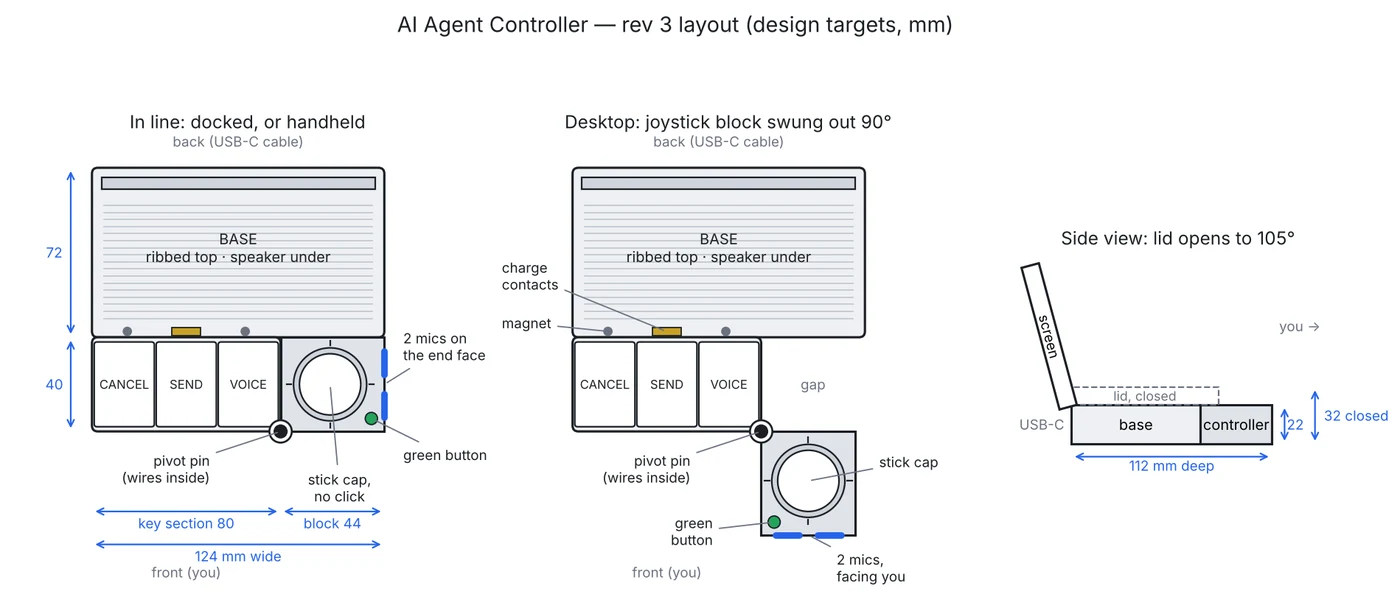
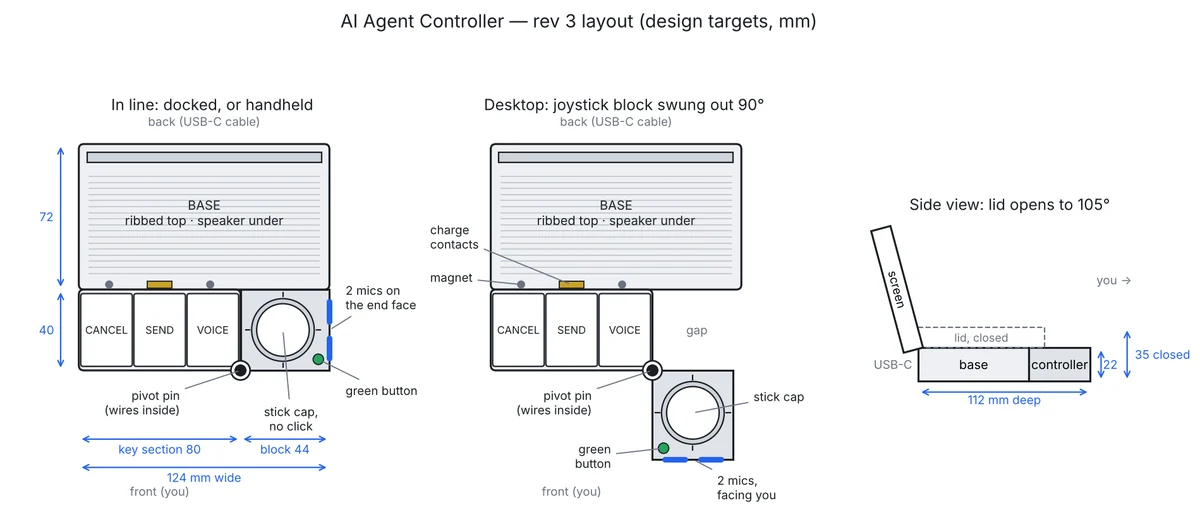
agent-controller: lid is 13 mm thick, display pins bent flat
Nico's decision. Concept model, renders, layout drawing, blueprint, plan,
decision log, build log and handoff updated. Closed size is about 124 x 112 x 35 mm.

Claude-Session: https://claude.ai/code/session_01EP3ipH8UzUytqJG5h65r5h

diff --git a/agent-controller/hardware/cad/rev3-pivot/concept.py b/agent-controller/hardware/cad/rev3-pivot/concept.py
@@ -30,7 +30,7 @@ H = 22.0                        # height of base and controller
 CD = 40.0                       # controller depth (y 0..40)
 BD = 72.0                       # base depth (y 40..112)
 Y0, Y1 = CD, CD + BD            # base front / back
-LID_D, LID_T = 82.0, 10.0
+LID_D, LID_T = 82.0, 13.0             # 13: room for the display's pins, bent flat
 LID_Y0 = Y1 - LID_D             # 30: the closed lid overhangs the controller by 10
 OPEN_DEG = 105.0
 JX = 18.0                       # joint between key section (left) and joystick block (right)
@@ -145,6 +145,10 @@ def dock_parts():
     P["lid_back"] = bk
     P["display"] = box(-54, 54, 36.0, 96.8, z0 + 1.2, z0 + 1.2 + 5.45)
     P["screen"] = box(-42.0, 42.0, 38.4, 94.4, z0 + 1.1, z0 + 1.2)
+    # the display's 14-pin header, pins bent flat so jumper plugs lie along the back of the module
+    hd = box(-54.0, -51.4, 48.2, 83.8, z0 + 6.65, z0 + 9.15)
+    hd = hd.union(box(-51.4, -44.5, 48.6, 83.4, z0 + 8.0, z0 + 8.7))
+    P["display_header"] = hd
     P["lid_magnet_lid"] = cyl_z(-57.0, 50.0, z0 + 0.15, z0 + 2.15, 3.0)
     P["hinge_pin1"] = cyl_x(-62.0, -46.0, Y1, H, 1.0)
     P["hinge_pin2"] = cyl_x(46.0, 62.0, Y1, H, 1.0)
@@ -312,7 +316,7 @@ PART_COL = {
     "base_floor": "floor", "base_shell": "shell", "contacts_base": "pogo", "dock_magnet_L": "magnet",
     "dock_magnet_R": "magnet", "lid_magnet_base": "magnet", "dock_board": "esp", "speaker": "speaker",
     "amp": "amp", "dock_led": "led", "lid_bezel": "bezel", "lid_back": "shell", "display": "display",
-    "screen": "screen", "lid_magnet_lid": "magnet", "hinge_pin1": "pin", "hinge_pin2": "pin",
+    "screen": "screen", "display_header": "pin", "lid_magnet_lid": "magnet", "hinge_pin1": "pin", "hinge_pin2": "pin",
     "key_body": "shell", "switch_plate": "splate", "battery_guard": "guard", "battery": "battery",
     "xiao": "xiao", "xiao_usb": "pin", "charger": "tp", "slide_switch": "slide", "contacts_ctrl": "pogo",
     "ctrl_magnet_L": "magnet", "ctrl_magnet_R": "magnet", "pivot_sensor": "button",
@@ -324,7 +328,7 @@ PART_COL = {
 for _i in (1, 2, 3):
     PART_COL[f"switch{_i}"] = "switch"
     PART_COL[f"plate{_i}"] = "plate"
-LID = {"lid_bezel", "lid_back", "display", "screen", "lid_magnet_lid"}
+LID = {"lid_bezel", "lid_back", "display", "screen", "display_header", "lid_magnet_lid"}
 SHELLS = {"base_floor", "base_shell", "lid_bezel", "lid_back", "key_body", "block_body", "block_top",
           "retainer", "plate1", "plate2", "plate3", "stick_cap", "screen"}
 
@@ -604,13 +608,14 @@ def main():
            title="Controller off the dock", sub="Magnets and two spring contacts on the base's front face.")
     # 4. closed
     render(scene(open_deg=0), (-170, -250, 170), (0, 56, 14), p("04-closed.png"), zoom=1.3,
-           title="Closed", sub="About 124 x 112 x 32 mm. The lid overhangs the controller by 10 mm.")
+           title="Closed", sub="About 124 x 112 x 35 mm. The lid overhangs the controller by 10 mm.")
 
     # 5. x-ray, three-quarter view, labelled
     xs = scene(xray=True)
     LM = lid_open()
     lab = [
         ('4" display + touch (in the lid)', anc(T(dock["display"], LM), "c")),
+        ("Display pins, bent flat", anc(T(dock["display_header"], LM), "c")),
         ("Speaker, 40 mm, under the open slots", anc(dock["speaker"])),
         ("Amplifier (MAX98357A)", anc(dock["amp"])),
         ("Dock board (ESP32-S3), pins down", (47, 92, 12.1)),
@@ -660,13 +665,14 @@ def main():
         "dock_magnet_R": tr(0, -22, 0), "lid_magnet_base": tr(0, 0, 50), "base_shell": tr(0, 0, 80),
         "hinge_pin1": tr(-16, 0, 80), "hinge_pin2": tr(16, 0, 80),
         "lid_magnet_lid": tr(0, 0, 112), "lid_bezel": tr(0, 0, 128), "screen": tr(0, 0, 128),
-        "display": tr(0, 0, 152), "lid_back": tr(0, 0, 180),
+        "display": tr(0, 0, 152), "display_header": tr(0, 0, 160), "lid_back": tr(0, 0, 184),
     }
     DM = {k: T(m, ex[k]) for k, m in dock.items()}
     items = [(DM[k], COL[PART_COL[k]]) for k in DM]
     lab = [
         ("Lid back", anc(DM["lid_back"])),
         ('4" ST7796 display with touch, 108 x 61 mm', anc(DM["display"])),
+        ("Display pins, bent flat for plug-on wires", anc(DM["display_header"])),
         ("Lid frame + screen window", anc(DM["lid_bezel"], "front")),
         ("Lid magnet", anc(DM["lid_magnet_lid"])),
         ("Hinge pin (M2 screw), one each side", anc(DM["hinge_pin2"], "right")),

diff --git a/agent-controller/hardware/cad/rev3-pivot/layout.py b/agent-controller/hardware/cad/rev3-pivot/layout.py
@@ -21,7 +21,7 @@ CTRL_D = 40        # controller depth
 KEY_W = 80         # key section width
 BLOCK_W = W - KEY_W
 H = 22             # base and controller height
-LID_D, LID_T = 82, 10
+LID_D, LID_T = 82, 13
 PLATE_W, PLATE_D, GAP = 25.5, 36, 0.8
 DISH, CAP = 31, 26
 OPEN_DEG = 105

diff --git a/agent-controller/docs/agent-controller-v0-blueprint.md b/agent-controller/docs/agent-controller-v0-blueprint.md
@@ -139,8 +139,8 @@ BOM IDs in brackets. Order status is in the BOM, not here.
 | Controller | 124 × 40 × 22 | Flush with the base top. May grow to 24 (see 4.5). |
 | Key section | 80 × 40 | Left part of the controller |
 | Joystick block | 44 × 40 | Right part |
-| Lid | 124 × 82 × 10 | Overhangs the controller by 10 when closed |
-| Whole device, closed | about 124 × 112 × 32 | Reference: 105 × 89 × 21 |
+| Lid | 124 × 82 × 13 | Overhangs the controller by 10 when closed. 13 thick so the display's pins fit, bent flat (decided 2026-11-18). |
+| Whole device, closed | about 124 × 112 × 35 | Reference: 105 × 89 × 21 |
 | Whole device, open | Lid stops at 105° | |
 
 ### 4.2 Base
@@ -152,6 +152,7 @@ BOM IDs in brackets. Order status is in the BOM, not here.
 
 ### 4.3 Lid and hinge
 - A frame around the display module with the screen in landscape.
+- **Display pins:** the module's 14 pins stick out of its back. Bend them flat toward the middle of the module with pliers, so plug-on jumper wires lie along its back. Nothing is desoldered.
 - **Hinge:** two knuckles at the back corners with M2 screws as pins. A printed stop holds the lid at 105°. One magnet pair holds it shut.
 - **Wires:** 11 or 12 wires (display, touch, power) cross beside the hinge through a slot, with a slack loop inside the base.
 
@@ -220,7 +221,7 @@ The model is `hardware/cad/rev3-pivot/concept.py`. It places every part and chec
 
 | # | Where | Numbers | If it doesn't fit |
 |---|---|---|---|
-| 1 | Display in the lid | The lid has 1.3 mm behind the display. The display's pin header is about 8 mm tall. | The header comes off and the wires are soldered to its pads. Otherwise the pins are bent flat and the lid grows from 10 to about 13 mm. |
+| 1 | Display in the lid | **Decided 2026-11-18:** the lid is 13 mm thick and the display's pins are bent flat. That leaves 4.3 mm behind the display; the bent pins and their plugs need about 3.2 mm. | If the plugs don't fit, solder the wires to the pins instead |
 | 2 | Battery under the switches | 1.0 mm between the battery and the switch pins, with the pins trimmed to 1.5 mm and a 0.6 mm printed guard sheet between them | If the battery measures over 8.2 mm, the controller and the base grow from 22 to 24 mm |
 | 3 | Dock board in the base | The board is 69 mm long; the base is 67.6 mm deep inside. The board's front end sits in a pocket that leaves 0.8 mm of wall. | The base grows 2 mm deeper |
 | 4 | Dock board pins | They end 0.3 mm above the bottom plate | Wires are soldered to the sides of the pins. Plug-on connectors don't fit. |
@@ -418,7 +419,7 @@ Breadboard tips:
 4. Whether the key plates need the rear hinge.
 5. Whether the controller ends up 22 or 24 mm tall.
 6. What SlashVibe's green button and four contacts really do. Check their source code when it's published.
-7. The five tight spots in §4.7. The first one matters most: whether the display's pin header comes off, or the lid gets thicker.
+7. The tight spots in §4.7. The first is decided (a 13 mm lid); the other four wait for the caliper measurements.
 
 ## 14. After v0
 - To-dos by voice and the meeting assistant.

diff --git a/agent-controller/HANDOFF.md b/agent-controller/HANDOFF.md
@@ -20,7 +20,7 @@ Last updated: 2026-11-18 · by Claude (cloud session)
   - **No hardware is wasted.** One new part (C10 tactile buttons) and a few "check you have it" items; see plan §6.
   - **Shopping list:** [hardware/bom/shopping-list-2026-11-18.md](hardware/bom/shopping-list-2026-11-18.md). A second audit added C11 (battery lead connectors), C12 (capacitors), T8 (USB-C power meter), T9 (breadboards), T10 and T11.
   - Layout drawing: `hardware/renders/2026-11-18-rev3-layout/rev3-layout.png`.
-  - **Concept model (3D):** `hardware/cad/rev3-pivot/concept.py` → renders in `hardware/renders/2026-11-18-rev3-concept/` (finished look, x-ray, exploded). Its overlap check passes. Part placement and five tight spots are in blueprint §4.7.
+  - **Concept model (3D):** `hardware/cad/rev3-pivot/concept.py` → renders in `hardware/renders/2026-11-18-rev3-concept/` (finished look, x-ray, exploded). Its overlap check passes. Part placement and the tight spots are in blueprint §4.7. The lid is 13 mm thick (decided), so the device is about 35 mm tall closed.
   - **The code has not changed.** It still uses the older key map until milestone M1b.
 - **PR #9 is merged** (2026-11-18): rev 3, the shopping list and the M2 plan from PR #7 are all on `main`.
 - **PR #10** (branch `agent-controller-m1b`) holds the concept model and its renders. M1b code work continues on the same branch or a new one after it merges.
@@ -191,10 +191,11 @@ The full list is in blueprint §13. The main ones:
 - Whether docked sensing and 1 A charging through the dock behave on the breadboard.
 - Whether the key plates need the rear hinge, and whether the controller ends up 22 or 24 mm tall.
 - What the reference's green button and four contacts really do (check their source code when it's published).
-- The five tight spots from the concept model (blueprint §4.7). First: does the display's pin header come off, or does the lid get thicker?
+- Four tight spots from the concept model still wait for measurements (blueprint §4.7). The display one is decided: a 13 mm lid, pins bent flat.
 - How to get Cursor's "waiting for approval" status.
 
 ## 8. Step log (newest first)
+- 2026-11-18 — Nico chose the thicker lid: 13 mm, display pins bent flat. Model, renders, layout drawing, blueprint §4.1/§4.3/§4.7 and plan updated. Closed size is now about 124 × 112 × 35 mm.
 - 2026-11-18 — Rev 3 concept model:
   - `hardware/cad/rev3-pivot/concept.py` builds the device with every part placed, runs an overlap check (passes) and renders eight views.
   - Renders in `hardware/renders/2026-11-18-rev3-concept/`, web copies in `media/web/rev3-02…08`.

diff --git a/agent-controller/docs/decisions.md b/agent-controller/docs/decisions.md
@@ -4,6 +4,7 @@ One line per decision: what, why, and what it replaced. Newest first.
 
 | Date | Decision | Why | Replaces |
 |---|---|---|---|
+| 2026-11-18 | The lid is 13 mm thick, and the display's pins are bent flat (Nico's choice) | The pins are about 8 mm tall and a 10 mm lid had 1.3 mm behind the display; bending avoids desoldering 14 pins | 10 mm lid with the header removed |
 | 2026-11-18 | Part placement fixed by a 3D concept model with an automatic overlap check: dock board on the right of the base, battery under the Send and Voice switches, XIAO and charger at the left end, dock status light in the base top | The x-ray views show every part in place and the check proves nothing collides | Placement described in words only |
 | 2026-11-18 | The pivot sits 4 mm in from the front face with a 12 mm knuckle; the Voice plate is notched around it | The block must clear the key section through the whole 90° swing | Pivot position left open |
 | 2026-11-18 | The battery connects through a JST-PH pigtail, and a 0.1 µF capacitor sits on the battery-reading pin | Nothing is soldered to a live battery; the high-resistance divider reads steadily | Soldering the battery leads; no capacitor |

diff --git a/agent-controller/BUILDLOG.md b/agent-controller/BUILDLOG.md
@@ -8,7 +8,8 @@ Newest first. Each entry covers what changed, why, and links to its renders and 
 - Built the whole device as a 3D model with every part in its place. → [renders](hardware/renders/2026-11-18-rev3-concept/)
 - Eight views: open, block swung out, controller off the dock, closed, two x-ray views, and both halves exploded with labels.
 - The model checks itself: no two parts overlap, with the lid closed, the block in line, and the block swung out.
-- It found five tight spots, listed in [blueprint §4.7](docs/agent-controller-v0-blueprint.md). The main one: the display's pin header is taller than the room behind it in the lid.
+- It found five tight spots, listed in [blueprint §4.7](docs/agent-controller-v0-blueprint.md). The main one: the display's pins were taller than the room behind it in the lid.
+- **Decision:** the lid grows from 10 to 13 mm and the display's pins are bent flat. The device is about 35 mm tall when closed.
 
 ![rev 3 concept](media/web/rev3-02-device-open.webp)
 

diff --git a/agent-controller/docs/plan.md b/agent-controller/docs/plan.md
@@ -82,7 +82,7 @@ Kept as they were: both boards, the display, the amp and speaker, the mics, the 
 | Aluminium shell, soft-touch finish | No | Printed PETG. Sanding and paint are optional. |
 | 20+ agents | Partly | Claude Code first, then Cursor and the chat apps through focus and paste |
 
-**Size, honestly.** The reference is 105 × 89 × 21 mm. Ours will be about 124 × 112 × 32 mm closed. Our display module is 108 mm wide, the dev boards are tall, and the battery is 8 mm thick.
+**Size, honestly.** The reference is 105 × 89 × 21 mm. Ours will be about 124 × 112 × 35 mm closed. Our display module is 108 mm wide, the dev boards are tall, and the battery is 8 mm thick.
 
 ---
 
